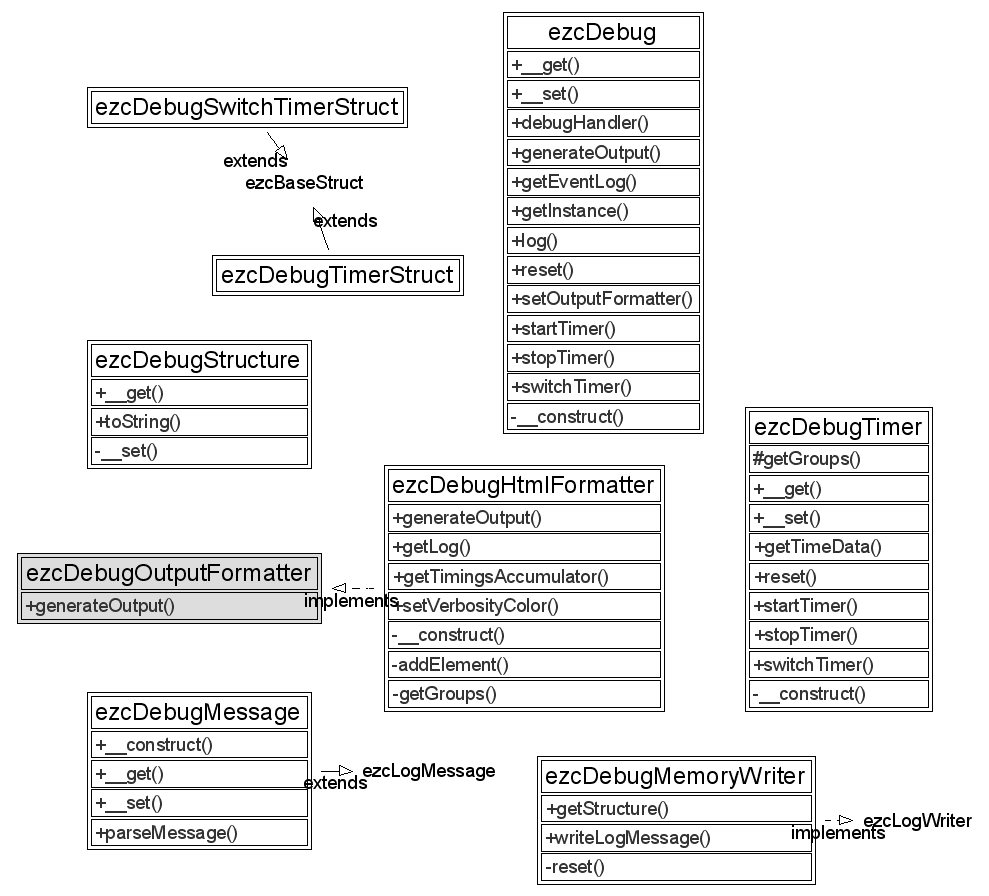
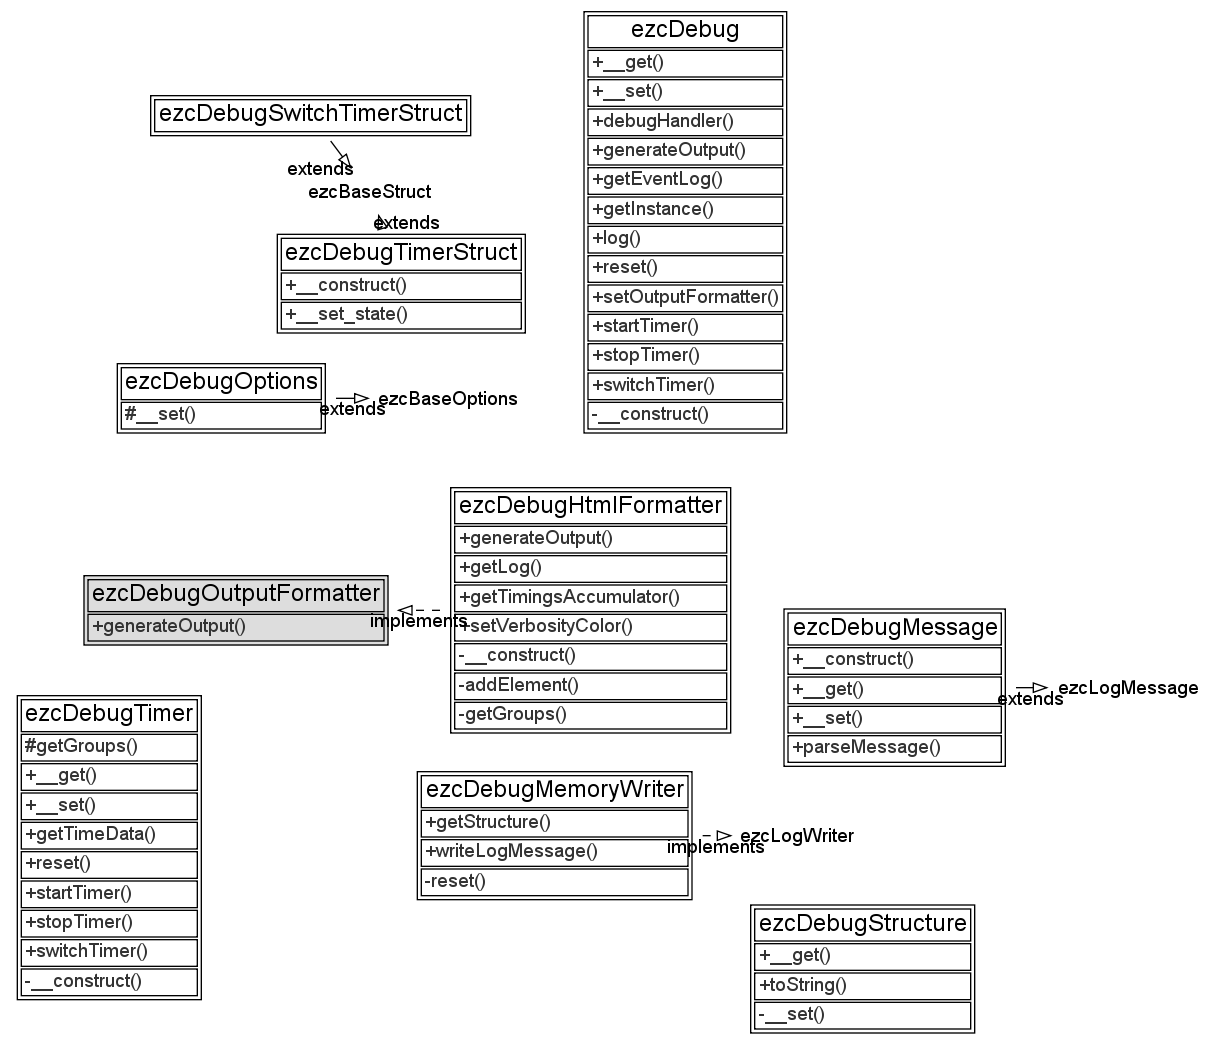
- Added ezcDebugOptions class. # Preperation of #10701: Getting a readable backtrace.
git-svn-id: http://svn.ez.no/svn/ezcomponents/trunk@7346 bc0e7bdc-f0fc-0310-8ff6-f601c06e1256

Changed region(s): [[0.0, 0.0, 1.0, 1.0], [0.7583, 0.7812, 0.7887, 0.8125]]

diff --git a/Debug/src/debug.php b/Debug/src/debug.php
@@ -71,6 +71,13 @@
 class ezcDebug
 {
     /**
+     * Properties. 
+     * 
+     * @var array(string=>mixed)
+     */
+    protected $properties = array();
+
+    /**
      * Instance of the singleton ezcDebug object.
      *
      * Use the getInstance() method to retrieve the instance.
@@ -114,6 +121,8 @@ class ezcDebug
      */
     private function __construct()
     {
+        $this->options = new ezcDebugOptions();
+
         $original = ezcLog::getInstance();
 
         $this->log = clone( $original ); 
@@ -132,28 +141,60 @@ class ezcDebug
 
 
     /**
-     * Throws always an {@link ezcBasePropertyNotFoundException}. 
+     * Property get access.
      *
      * @throws ezcBasePropertyNotFoundException
-     * @param string $name
+     *         If the given property could not be found.
+     * @param string $propertyName
      * @ignore
      */
-    public function __get( $name )
+    public function __get( $propertyName )
     {
-        throw new ezcBasePropertyNotFoundException( $name );
+        if ( $this->__isset( $propertyName ) )
+        {
+            return $this->properties[$propertyName];
+        }
+        throw new ezcBasePropertyNotFoundException( $propertyName );
     }
 
     /**
-     * Throws always an {@link ezcBasePropertyNotFoundException}. 
+     * Property set access.
      *
      * @throws ezcBasePropertyNotFoundException
-     * @param string $name
-     * @param string $value
+     * @param string $propertyName
+     * @param string $propertyValue
      * @ignore
      */
-    public function __set( $name, $value )
+    public function __set( $propertyName, $propertyValue )
     {
-        throw new ezcBasePropertyNotFoundException( $name );
+        switch ( $propertyName )
+        {
+            case 'options':
+                if ( !( $propertyValue instanceof ezcDebugOptions ) )
+                {
+                    throw new ezcBaseValueException(
+                        $propertyName,
+                        $propertyValue,
+                        'ezcDebugOptions'
+                    );
+                }
+                break;
+            default:
+                throw new ezcBasePropertyNotFoundException( $propertyName );
+        }
+        $this->properties[$propertyName] = $propertyValue;
+    }
+
+    /**
+     * Property isset access. 
+     * 
+     * @param string $propertyName 
+     * @return bool
+     * @ignore
+     */
+    public function __isset( $propertyName )
+    {
+        return array_key_exists( $propertyName, $this->properties );
     }
 
 

diff --git a/Debug/src/options.php b/Debug/src/options.php
@@ -1,0 +1,80 @@
+<?php
+/**
+ * This file contains the ezcDebugOptions class.
+ *
+ * @package Debug
+ * @version //autogentag//
+ * @copyright Copyright (C) 2005-2008 eZ systems as. All rights reserved.
+ * @license http://ez.no/licenses/new_bsd New BSD License
+ * @filesource
+ */
+
+/**
+ * Options class for ezcDebug.
+ *
+ * @property bool $stackTrace
+ *           Determines if a stack trace is stored and displayed with every
+ *           debug message by default. Default is false.
+ * @property int $stackTraceDepth
+ *           The number of levels to store for the stack trace. 0 means no
+ *           limit and a complete stack trace will always be stored. Not that
+ *           this might consume a large amount of memory. Default is 5.
+ * @package Debug
+ * @version //autogen//
+ */
+class ezcDebugOptions extends ezcBaseOptions
+{
+    /**
+     * Properties.
+     * 
+     * @var array(string=>mixed)
+     */
+    protected $properties = array(
+        'stackTrace'      => false,
+        'stackTraceDepth' => 5,
+    );
+
+    /**
+     * Property write access.
+     * 
+     * @param string $propertyName Name of the property.
+     * @param mixed $propertyValue The value for the property.
+     *
+     * @throws ezcBasePropertyPermissionException
+     *         If the property you try to access is read-only.
+     * @throws ezcBasePropertyNotFoundException 
+     *         If the the desired property is not found.
+     * @ignore
+     */
+    public function __set( $propertyName, $propertyValue )
+    {
+        switch ( $propertyName )
+        {
+            case 'stackTrace':
+                if ( !is_bool( $propertyValue ) )
+                {
+                    throw new ezcBaseValueException(
+                        $propertyName,
+                        $propertyValue,
+                        'bool'
+                    );
+                }
+                break;
+            case 'stackTraceDepth':
+                if ( !is_int( $propertyValue ) || $propertyValue < 0 )
+                {
+                    throw new ezcBaseValueException(
+                        $propertyName,
+                        $propertyValue,
+                        'int >= 0'
+                    );
+                }
+                break;
+            default:
+                ezcBasePropertyNotFoundException( $propertyName );
+        }
+        $this->properties[$propertyName] = $propertyValue;
+    }
+}
+
+?>

diff --git a/Debug/tests/debug_options_test.php b/Debug/tests/debug_options_test.php
@@ -1,0 +1,75 @@
+<?php
+/**
+ * @copyright Copyright (C) 2005-2008 eZ systems as. All rights reserved.
+ * @license http://ez.no/licenses/new_bsd New BSD License
+ * @version //autogentag//
+ * @filesource
+ * @package Debug
+ * @subpackage Tests
+ */
+
+/**
+ * Test suite for the ezcDebugOptions class.
+ *
+ * @package Debug
+ * @subpackage Tests
+ */
+class ezcDebugOptionsTest extends ezcTestCase
+{
+    public static function suite()
+    {
+        return new PHPUnit_Framework_TestSuite( __CLASS__ );
+    }
+
+    public function testCtor()
+    {
+        $opts = new ezcDebugOptions();
+
+        $this->assertSame(
+            false,
+            $opts->stackTrace,
+            'Default value for option $stackTrace incorrect.'
+        );
+        $this->assertSame(
+            5,
+            $opts->stackTraceDepth,
+            'Default value for option $stackTraceDepth incorrect.'
+        );
+    }
+
+    public function testSetSuccess()
+    {
+        $opts = new ezcDebugOptions();
+
+        $opts->stackTrace      = true;
+        $opts->stackTraceDepth = 100;
+
+        $this->assertSetProperty(
+            $opts,
+            'stackTrace',
+            array( true, false )
+        );
+        $this->assertSetProperty(
+            $opts,
+            'stackTraceDepth',
+            array( 0, 1, 23 )
+        );
+    }
+
+    public function testSetFailure()
+    {
+        $opts = new ezcDebugOptions();
+
+        $this->assertSetPropertyFails(
+            $opts,
+            'stackTrace',
+            array( null, 23, 'foobar', array(), new stdClass() )
+        );
+        $this->assertSetPropertyFails(
+            $opts,
+            'stackTraceDepth',
+            array( null, true, -23, 'foobar', array(), new stdClass() )
+        );
+    }
+}
+?>

diff --git a/Debug/tests/debug_test.php b/Debug/tests/debug_test.php
@@ -47,6 +47,60 @@ class ezcDebugTest extends ezcTestCase
         }
     }
 
+    public function testGetAccessSuccess()
+    {
+        $this->assertEquals(
+            new ezcDebugOptions(),
+            $this->dbg->options,
+            'Property $options does not have proper default value.'
+        );
+    }
+
+    public function testGetAccessFailures()
+    {
+        try
+        {
+            echo $this->dbg->foobar;
+            $this->fail( 'Exception not thrown on get access to unknown property $foobar.' );
+        }
+        catch ( ezcBasePropertyNotFoundException $e )
+        {}
+    }
+
+    public function testSetAccessSuccess()
+    {
+        $this->assertSetProperty(
+            $this->dbg,
+            'options',
+            array( new ezcDebugOptions(), )
+        );
+    }
+
+    public function testSetAccessFailure()
+    {
+        $this->assertSetPropertyFails(
+            $this->dbg,
+            'options',
+            array( null, true, 23, 23.42, 'foobar', array(), new stdClass )
+        );
+    }
+
+    public function testIssetAccessSuccess()
+    {
+        $this->assertTrue(
+            isset( $this->dbg->options ),
+            'Property $options does not seem to be set.'
+        );
+    }
+
+    public function testIssetAccessFailure()
+    {
+        $this->assertFalse(
+            isset( $this->dbg->foobar ),
+            'Property $foobar seems to be set.'
+        );
+    }
+
     // Messages are already tested in DebugMemoryWriterTest.
     // Quick test if the basics work.
     public function testSimpleMessage()

diff --git a/Debug/tests/suite.php b/Debug/tests/suite.php
@@ -14,6 +14,7 @@
 
 require_once "debug_delayed_init_test.php";
 require_once "debug_test.php";
+require_once "debug_options_test.php";
 require_once "debug_timer_test.php";
 require_once "writers/memory_writer_test.php";
 require_once "formatters/html_formatter_test.php";
@@ -33,6 +34,7 @@ class ezcDebugSuite extends PHPUnit_Framework_TestSuite
 		$this->addTest( ezcDebugMemoryWriterTest::suite() );
 		$this->addTest( ezcDebugTimerTest::suite() );
 		$this->addTest( ezcDebugTest::suite() );
+		$this->addTest( ezcDebugOptionsTest::suite() );
 		$this->addTest( ezcDebugHtmlFormatterTest::suite() );
 	}
 

diff --git a/Debug/src/debug_autoload.php b/Debug/src/debug_autoload.php
@@ -15,6 +15,7 @@ return array(
     'ezcDebugHtmlFormatter'     => 'Debug/formatters/html_formatter.php',
     'ezcDebugMemoryWriter'      => 'Debug/writers/memory_writer.php',
     'ezcDebugMessage'           => 'Debug/debug_message.php',
+    'ezcDebugOptions'           => 'Debug/options.php',
     'ezcDebugStructure'         => 'Debug/structs/debug_structure.php',
     'ezcDebugSwitchTimerStruct' => 'Debug/structs/switch_timer.php',
     'ezcDebugTimer'             => 'Debug/debug_timer.php',
